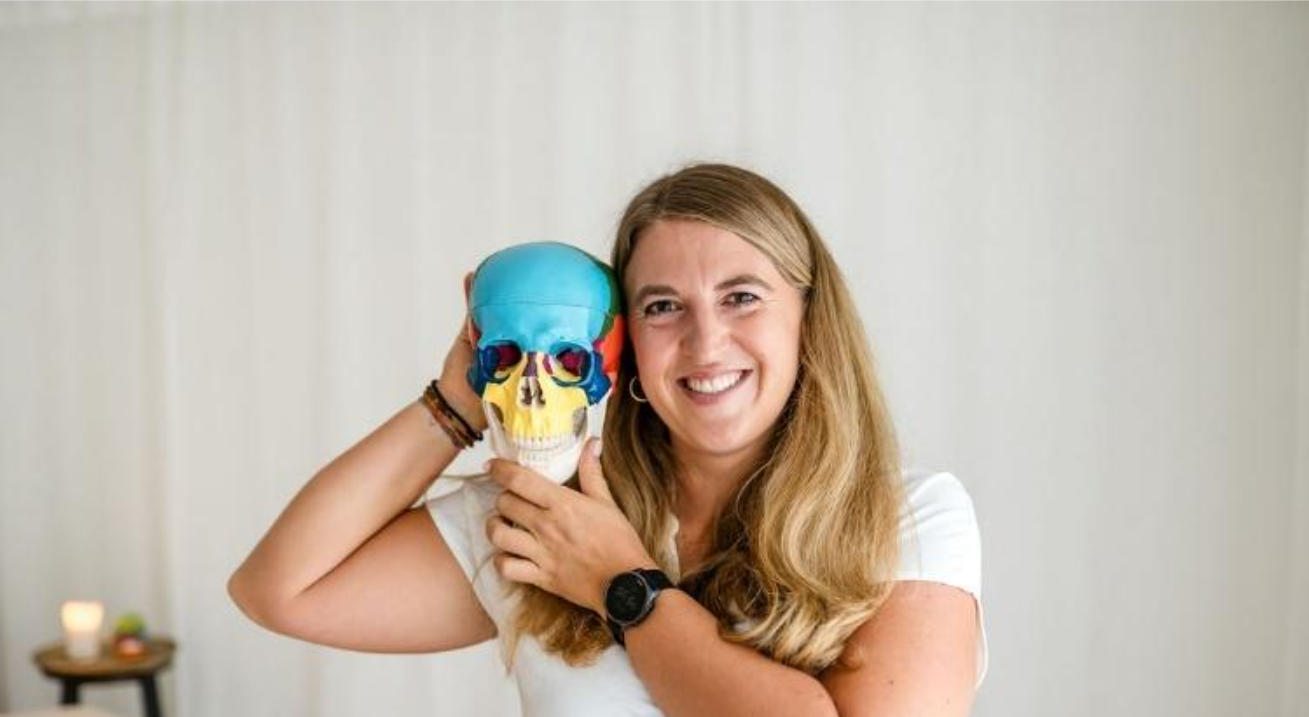
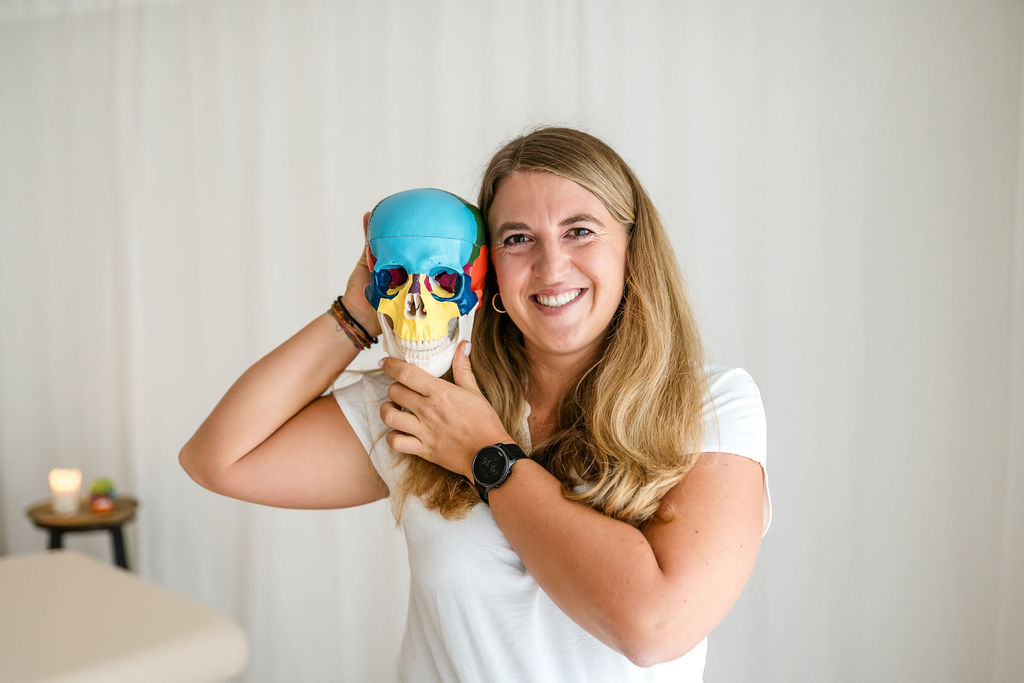
feat: update kontakt and ueber-mich content with new images, text enhancements, and styling adjustments

diff --git a/src/app/ueber-mich/content.tsx b/src/app/ueber-mich/content.tsx
@@ -14,17 +14,13 @@ function Content() {
         {/* Hero Section */}
         <div className="grid lg:grid-cols-2 gap-12 items-center mb-20 pt-20">
           <div className="order-2 lg:order-1">
-            <Typography variant="h1" className="font-inter text-taupe-800 text-3xl md:text-4xl font-light mb-6">
+            <Typography variant="h1" className="font-inter text-taupe-800 text-3xl md:text-4xl font-light mb-8">
               Über mich
             </Typography>
-            <Typography variant="h2" className="font-inter text-therapeutic-700 text-xl md:text-2xl font-light mb-8">
-              Stefanie Kaindl
-            </Typography>
             <Typography className="font-inter text-taupe-700 text-lg leading-relaxed mb-6">
-              Mein Name ist Stefanie Kaindl und ich begleite Menschen auf ihrem Weg zu mehr 
-              Wohlbefinden und innerer Balance. Als zertifizierte Craniosacrale Therapeutin 
-              bringe ich nicht nur fachliche Kompetenz mit, sondern auch die persönliche 
-              Erfahrung der heilsamen Wirkung dieser besonderen Therapieform.
+              Mein Name ist Stefanie Kaindl – ich bin Craniosacral-Praktikerin aus Leidenschaft.
+              Mit 34 Jahren habe ich meine Berufung gefunden: Menschen dabei zu begleiten, in Kontakt 
+              mit ihrer inneren Kraft, Ruhe und Balance zu kommen.
             </Typography>
             <div className="flex flex-col sm:flex-row gap-4">
               <Link href="/kontakt">
@@ -66,34 +62,48 @@ function Content() {
         <div className="mb-20">
           <div className="bg-white rounded-2xl p-8 md:p-12 warm-shadow border border-cream-200">
             <Typography variant="h3" className="font-inter text-taupe-800 text-2xl md:text-3xl font-light mb-8 text-center">
-              Mein persönlicher Weg zur Cranio
+              Mein Weg
             </Typography>
-            <div className="grid md:grid-cols-2 gap-8">
-              <div>
-                <Typography className="font-inter text-taupe-700 leading-relaxed mb-6">
-                  Vor einigen Jahren führten meine persönlichen Lebensumstände dazu, dass ich 
-                  mich intensiv mit alternativen Heilmethoden beschäftigte. Über viele Jahre 
-                  hinweg suchte ich nach Möglichkeiten, körperliche und emotionale Beschwerden 
-                  zu lindern – jedoch zunächst ohne nachhaltigen Erfolg.
+            <div className="space-y-6 max-w-4xl mx-auto">
+              <Typography className="font-inter text-taupe-700 leading-relaxed">
+                Meine fundierte Ausbildung bei Katharina Bähner in Stuttgart, die ich im März 2024 
+                abgeschlossen habe, war für mich ein intensiver Transformationsprozess – fachlich wie 
+                auch persönlich. Ergänzend dazu habe ich eine Weiterbildung in Kinder-Cranio absolviert, 
+                um auch Babys und Kinder mit besonderer Achtsamkeit und Einfühlungsvermögen begleiten zu können.
+              </Typography>
+              
+              <Typography className="font-inter text-taupe-700 leading-relaxed">
+                Derzeit vertiefe ich mein Verständnis für Körper, Atem und Energie durch eine 
+                300-Stunden-Vinyasa-Yogalehrerausbildung bei Lovelysita in Prien, die ich im Januar 2026 
+                abschließen werde. Yoga und Craniosacralarbeit ergänzen sich für mich auf wunderbare 
+                Weise – beide schaffen Raum für Präsenz, Bewusstsein und Heilung auf allen Ebenen.
+              </Typography>
+              
+              <Typography className="font-inter text-taupe-700 leading-relaxed">
+                Als zweifache Mama weiß ich aus eigener Erfahrung, wie wertvoll es ist, Körper und 
+                Seele mit Respekt und Sanftheit zu begegnen. Die Craniosacrale Arbeit ist für mich 
+                weit mehr als eine Technik – sie ist eine Begegnung auf Augenhöhe, eine Einladung zum 
+                Loslassen, zur inneren Ruhe und Selbstheilung.
+              </Typography>
+              
+              <Typography className="font-inter text-taupe-700 leading-relaxed">
+                In meiner Praxis möchte ich einen Raum schaffen, in dem du dich sicher und geborgen 
+                fühlst – einen Ort, an dem du zur Ruhe kommen und wieder in Verbindung mit deinem eigenen 
+                Rhythmus treten kannst. Mit großer Leidenschaft bilde ich mich kontinuierlich weiter, 
+                um mein Wissen zu vertiefen und dir die bestmögliche Erfahrung zu ermöglichen.
+              </Typography>
+              
+              <Typography className="font-inter text-taupe-700 leading-relaxed">
+                Ich freue mich darauf, dich auf deinem Weg zu mehr Klarheit, Lebenskraft und innerer 
+                Balance zu begleiten.
+              </Typography>
+              
+              <div className="mt-12 pt-6">
+                <Typography className="font-inter text-taupe-600 text-base italic mb-1">
+                  Von Herzen,
                 </Typography>
-                <Typography className="font-inter text-taupe-700 leading-relaxed">
-                  Als ich dann erstmals eine Craniosacrale Behandlung erhielt, erlebte ich 
-                  zum ersten Mal seit langem positive Veränderungen in meinem Wohlbefinden. 
-                  Die sanfte, aber tiefgreifende Wirkung dieser Methode beeindruckte mich so sehr, 
-                  dass der Wunsch entstand, mehr über diese besondere Form der Körperarbeit zu erfahren.
-                </Typography>
-              </div>
-              <div>
-                <Typography className="font-inter text-taupe-700 leading-relaxed mb-6">
-                  Diese persönliche Erfahrung motivierte mich dazu, mich an der renommierten 
-                  Cranio-Schule in Stuttgart anzumelden. Die fundierte Ausbildung dort hat 
-                  nicht nur mein Verständnis für die Craniosacrale Arbeit vertieft, sondern 
-                  auch meine eigene Heilungsreise unterstützt.
-                </Typography>
-                <Typography className="font-inter text-taupe-700 leading-relaxed">
-                  Heute bin ich dankbar für diesen Weg, denn diese Arbeit bereichert mein Leben 
-                  auf vielfältige Weise und ermöglicht es mir, andere Menschen bei ihrer 
-                  Heilungsreise zu begleiten.
+                <Typography className="font-inter text-therapeutic-700 text-xl font-light italic tracking-wide" style={{ fontFamily: 'cursive' }}>
+                  Steffi
                 </Typography>
               </div>
             </div>
@@ -113,14 +123,14 @@ function Content() {
                 </div>
                 <div>
                   <Typography className="font-inter font-medium text-taupe-800 text-lg mb-2">
-                    Craniosacrale Therapie
+                    Craniosacrale Körperarbeit
                   </Typography>
                   <Typography className="font-inter text-taupe-600 mb-2">
-                    Cranio-Schule Stuttgart
+                    Katharina Bähner, Stuttgart – Abschluss März 2024
                   </Typography>
                   <Typography className="font-inter text-taupe-700 text-sm">
-                    Umfassende Ausbildung in Craniosacraler Körperarbeit mit Fokus auf 
-                    ganzheitliche Behandlungsansätze und Traumaintegration.
+                    Fundierte Ausbildung in Craniosacraler Körperarbeit mit intensivem 
+                    Transformationsprozess auf fachlicher und persönlicher Ebene.
                   </Typography>
                 </div>
               </div>
@@ -129,6 +139,46 @@ function Content() {
             <div className="bg-white rounded-2xl p-6 warm-shadow border border-cream-200">
               <div className="flex items-start space-x-4">
                 <div className="w-12 h-12 bg-sage-600 rounded-full flex items-center justify-center flex-shrink-0">
+                  <Typography className="text-white font-bold">KC</Typography>
+                </div>
+                <div>
+                  <Typography className="font-inter font-medium text-taupe-800 text-lg mb-2">
+                    Kinder-Cranio
+                  </Typography>
+                  <Typography className="font-inter text-taupe-600 mb-2">
+                    Weiterbildung
+                  </Typography>
+                  <Typography className="font-inter text-taupe-700 text-sm">
+                    Spezialisierung auf die achtsame Begleitung von Babys und Kindern 
+                    mit besonderem Einfühlungsvermögen.
+                  </Typography>
+                </div>
+              </div>
+            </div>
+
+            <div className="bg-white rounded-2xl p-6 warm-shadow border border-cream-200">
+              <div className="flex items-start space-x-4">
+                <div className="w-12 h-12 bg-therapeutic-600 rounded-full flex items-center justify-center flex-shrink-0">
+                  <Typography className="text-white font-bold">YL</Typography>
+                </div>
+                <div>
+                  <Typography className="font-inter font-medium text-taupe-800 text-lg mb-2">
+                    Vinyasa-Yogalehrerin (in Ausbildung)
+                  </Typography>
+                  <Typography className="font-inter text-taupe-600 mb-2">
+                    Lovelysita, Prien – Abschluss Januar 2026
+                  </Typography>
+                  <Typography className="font-inter text-taupe-700 text-sm">
+                    300-Stunden-Ausbildung zur Vertiefung des Verständnisses für 
+                    Körper, Atem und Energie.
+                  </Typography>
+                </div>
+              </div>
+            </div>
+
+            <div className="bg-cream-50 rounded-2xl p-6 warm-shadow border border-cream-200">
+              <div className="flex items-start space-x-4">
+                <div className="w-12 h-12 bg-[#8B9A7C] rounded-full flex items-center justify-center flex-shrink-0">
                   <Typography className="text-white font-bold">WB</Typography>
                 </div>
                 <div>
@@ -136,11 +186,11 @@ function Content() {
                     Kontinuierliche Weiterbildung
                   </Typography>
                   <Typography className="font-inter text-taupe-600 mb-2">
-                    Verschiedene Institute
+                    Laufend
                   </Typography>
                   <Typography className="font-inter text-taupe-700 text-sm">
-                    Regelmäßige Fortbildungen in speziellen Techniken und 
-                    aktuellen Entwicklungen der Craniosacralen Therapie.
+                    Mit großer Leidenschaft kontinuierliche Weiterbildung zur 
+                    Vertiefung des Wissens und bestmöglicher Begleitung.
                   </Typography>
                 </div>
               </div>
@@ -155,24 +205,23 @@ function Content() {
               Meine Behandlungsphilosophie
             </Typography>
             <div className="max-w-4xl mx-auto">
-              <Typography className="font-inter text-taupe-700 text-lg leading-relaxed mb-6 text-center">
-                "Jeder Mensch trägt in sich die Fähigkeit zur Heilung. Meine Aufgabe ist es, 
-                einen sicheren Raum zu schaffen, in dem diese natürlichen Heilungsprozesse 
-                aktiviert werden können."
+              <Typography className="font-inter text-taupe-700 text-lg leading-relaxed mb-6 text-center italic">
+                "Die Craniosacrale Arbeit ist für mich weit mehr als eine Technik – sie ist eine 
+                Begegnung auf Augenhöhe, eine Einladung zum Loslassen, zur inneren Ruhe und Selbstheilung."
               </Typography>
               <div className="grid md:grid-cols-3 gap-6 mt-12">
                 {[
                   {
-                    title: "Individuell",
-                    desc: "Jede Behandlung wird an Ihre persönlichen Bedürfnisse angepasst"
+                    title: "Sicher & Geborgen",
+                    desc: "Ein Raum, in dem du zur Ruhe kommen und in Verbindung mit deinem eigenen Rhythmus treten kannst"
                   },
                   {
-                    title: "Ganzheitlich", 
-                    desc: "Körper, Geist und Seele werden als Einheit betrachtet"
+                    title: "Achtsam & Einfühlsam", 
+                    desc: "Respektvolle Begegnung mit Körper und Seele in sanfter, liebevoller Begleitung"
                   },
                   {
-                    title: "Respektvoll",
-                    desc: "Ihre Grenzen und Ihr Tempo werden stets respektiert"
+                    title: "Präsenz & Bewusstsein",
+                    desc: "Raum für Heilung auf allen Ebenen – körperlich, emotional und energetisch"
                   }
                 ].map((principle, index) => (
                   <div key={index} className="text-center">
@@ -195,11 +244,11 @@ function Content() {
         {/* Contact CTA */}
         <div className="text-center bg-cream-100 rounded-2xl p-12 warm-shadow border border-cream-300">
           <Typography variant="h3" className="font-inter text-taupe-800 text-2xl font-light mb-4">
-            Lassen Sie uns sprechen
+            Lass uns sprechen
           </Typography>
           <Typography className="font-inter text-taupe-700 mb-8 max-w-2xl mx-auto">
-            Haben Sie Fragen zur Craniosacralen Therapie oder möchten Sie einen Termin vereinbaren? 
-            Ich freue mich darauf, Sie kennenzulernen und Sie auf Ihrem Weg zu begleiten.
+            Hast du Fragen zur Craniosacralen Körperarbeit oder möchtest du einen Termin vereinbaren? 
+            Ich freue mich darauf, dich kennenzulernen und dich auf deinem Weg zu begleiten.
           </Typography>
           <Link href="/kontakt">
             <Button 

diff --git a/src/app/kontakt/content.tsx b/src/app/kontakt/content.tsx
@@ -117,10 +117,10 @@ function Content() {
         {/* Hero Image */}
         <div className="relative flex-1 w-full overflow-hidden bg-cream-50">
           <div 
-            className="absolute inset-0 bg-cover bg-center bg-no-repeat"
+            className="absolute inset-0 bg-cover bg-no-repeat"
             style={{
               backgroundImage: "url('/image/kontakt.png')",
-              backgroundPosition: "center center",
+              backgroundPosition: "center 33%",
               backgroundSize: "cover"
             }}
           >
